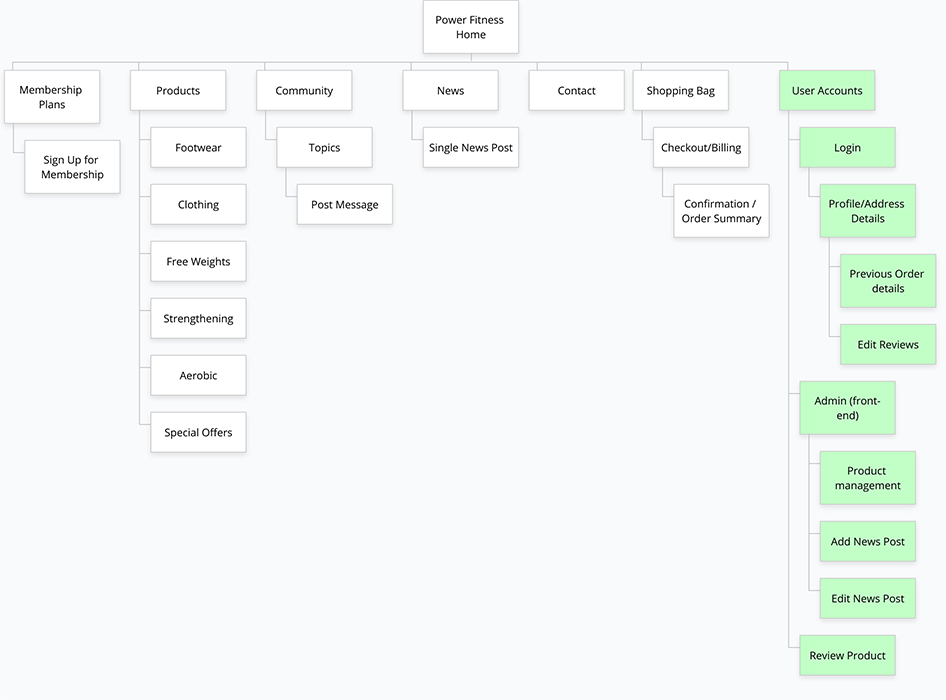
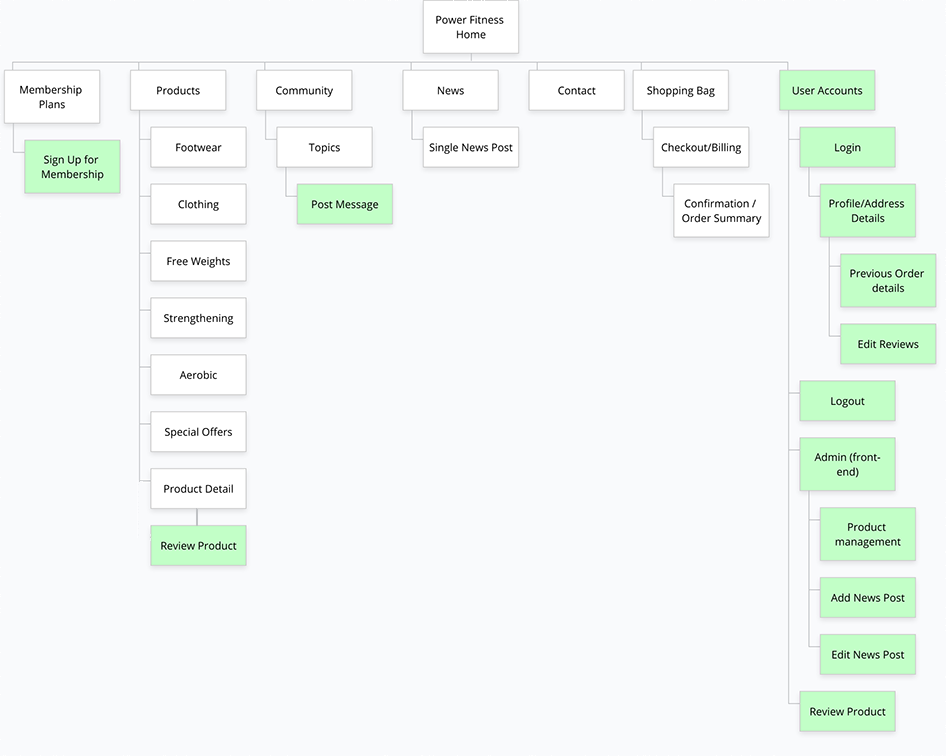
Added updated sitemap and edited README

diff --git a/README.md b/README.md
@@ -83,7 +83,7 @@ Staff Users should be able to do all the above and:
 
 ### Structure
 
-To list the pages I needed and to visualise the site structure, I designed my visual sitemap in Gloomap. In the sitemap below, the pages marked in green represent site User (logged in) pages:
+To list the pages I needed and to visualise the site structure, I designed my visual sitemap in Gloomap. In the sitemap below, the pages marked in green represent site User (logged in) pages. Product Detail can be gotten to from all Products, product categories while Product Reviews is only accesible from the Product Detail page, or Profile:
 
 ![Sitemap](README_resources/gloomap-sitemap.png)
 
